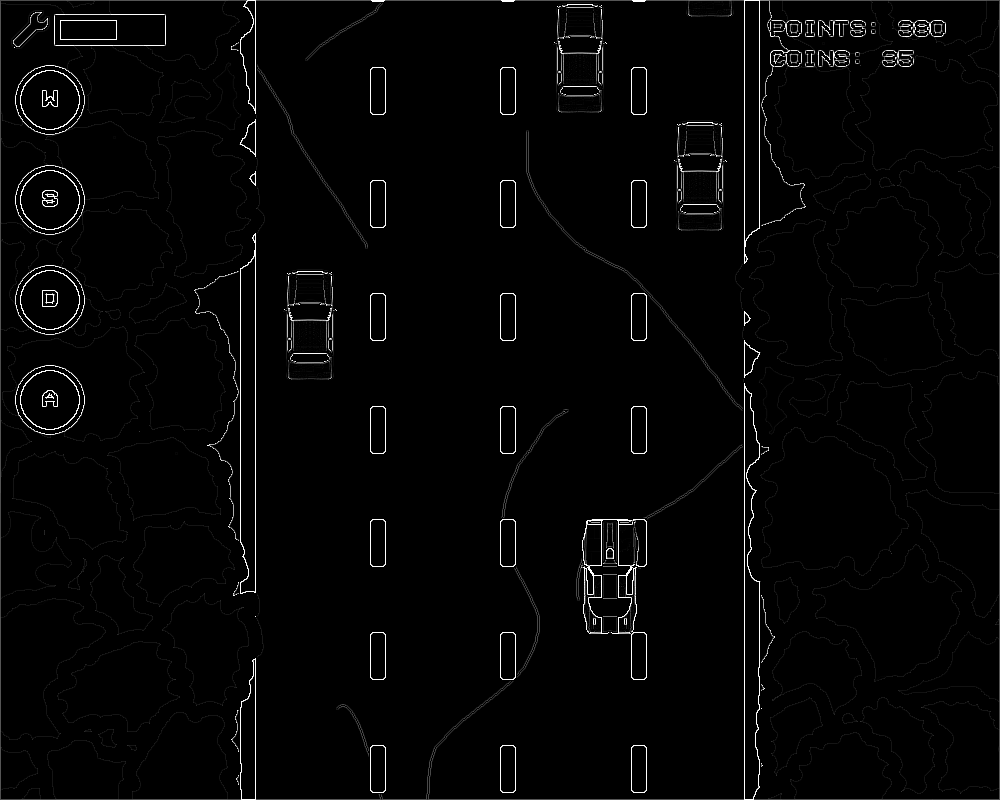
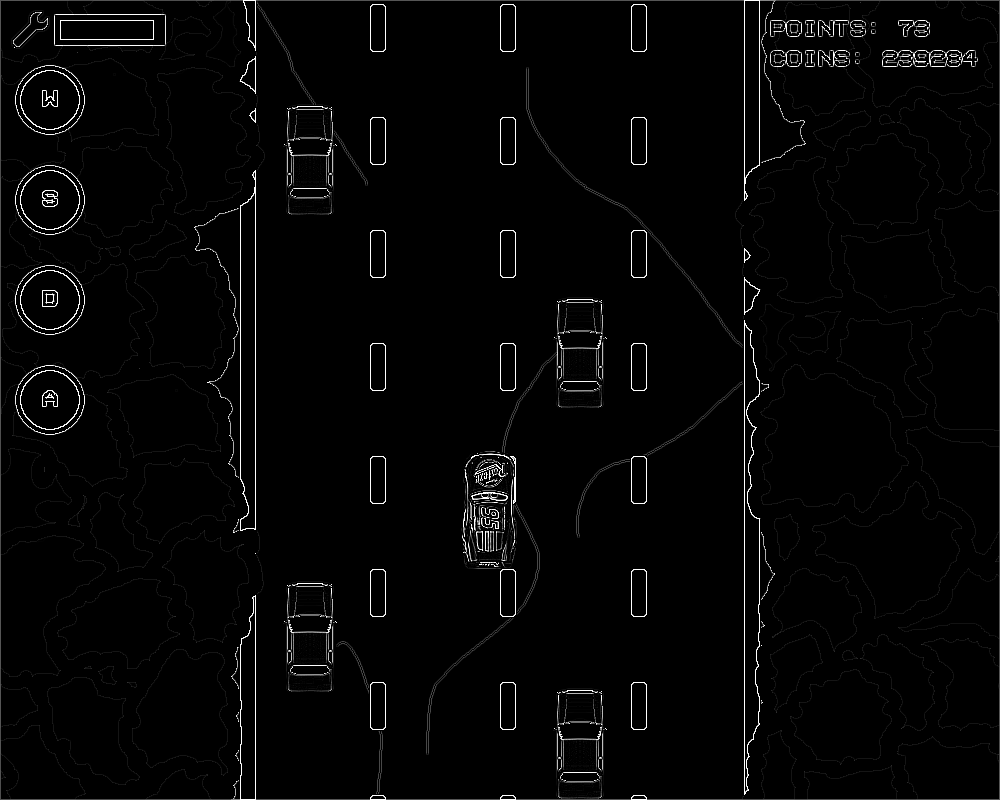
ы

diff --git a/cars.py b/cars.py
@@ -28,7 +28,7 @@ while not STOP:
     data = DataFile.read()
     DataFile.close()
 
-    skins = 4
+    skins = 5
     skin = 1
 
     data = data.split("\n")
@@ -38,9 +38,7 @@ while not STOP:
     SK = []
     for i in sk:
         SK.append(i)
-    prices = [0, 100, 100, 200]
-
-    help_text = "Вы едете на гоночном автомобиле по трассе. По пути вам придется уклоняться от других участников дорожного движения, ускользать от полиции, а если она вас все-таки настигла – драться за жизнь. Пока вы едете, вы: копите очки, из которых затем составляется ваш рекорд, собираете монеты, за которые можно покупать новые автомобили (которые кстати можно переключать в меню), стараетесь проехать как можно дальше. Но далеко уехать будет не так просто: вы постепенно набираете скорость, а значит  - все вокруг двигается все быстрее и быстрее.\nНе злите полицию – современные полицейские машины (представленные в моей игре) оснащены несколькими видами оружия. С помощью этого оружия они смогут вас атаковать: \n1.	Центральная атака  - П (полицейская машина) становится в центр дороги и начинает по вам стрелять. Не подъезжайте к ней до того, как она не прекратит стрелять!\n2.	Боковая атака – П ездит по боковым полосам и стреляет вбок. Иногда он делает передышку – этим нужно пользоваться.\n3.	Бросок шипов – П занимает позицию повыше и начинает выпускать шипы. От них вполне можно уворачиваться, но для этого нужна сноровка.\n4.	Таран – П усердно преследует вас и норовит протаранить. Если он все же решится – попробуйте остановить время и уклониться.\nКстати о способностях. Они активируются на кнопки клавиатуры и имеют такие функции:\n1.	W – выпускает волну, отталкивающую все, что  есть на дороге, и уничтожающую шипы.\n2.	D – останавливает время. Пока время остановлено, вы можете выехать из сложной ситуации или уклониться от пули.\n3.	S – выпускает пятно масла. Это масло может сломать П или просто расчистить дорогу.\n4.	А – выпускает дрон, который лечит вас от прикосновения к другим машинам."
+    prices = [0, 100, 100, 400, 200]
 
     player_img = pygame.image.load(os.path.join(img_folder, ("pl-" + str(skin) + ".png"))).convert()
     road_img = pygame.image.load(os.path.join(img_folder, 'rd-1.png')).convert()
@@ -1210,7 +1208,6 @@ while not STOP:
     text = font_type.render((str("Points: ") + str(points)), True, (0, 0, 0))
     textC = font_type.render((str("Coins: ") + str(coins)), True, (0, 0, 0))
     textP = font_type_prices.render((str("  0") + str("C")), True, (0, 0, 0))
-    textH = font_type_help.render(help_text, True, (0, 0, 0))
 
     all_sprites = pygame.sprite.Group(road, pit, coin, spikes, oil, bullet, cop, player)
     for i in range(0, bot_count):
@@ -1368,7 +1365,6 @@ while not STOP:
             textC = font_type.render((str("Coins: ") + str(coins)), True, (0, 0, 0))
             screen.blit(text, (770, 20))
             screen.blit(textC, (770, 50))
-        if helpp: screen.blit(textH, (0, 0))
     #--------------------пауза--------------------------------------#
         smd += 1
         if smd >= 15:
@@ -1401,7 +1397,7 @@ while not STOP:
             if ty[0] >= 355 and ty[1] >= 200 and ty[0] <= 355 + 300 and ty[1] <= 270:
                 screen.blit(ps_8_img, (355, 200))
                 if w == 1:
-                    helpp = True
+                    os.startfile(r"help.txt")
             else:
                 screen.blit(ps_81_img, (355, 200))
         if pause:
